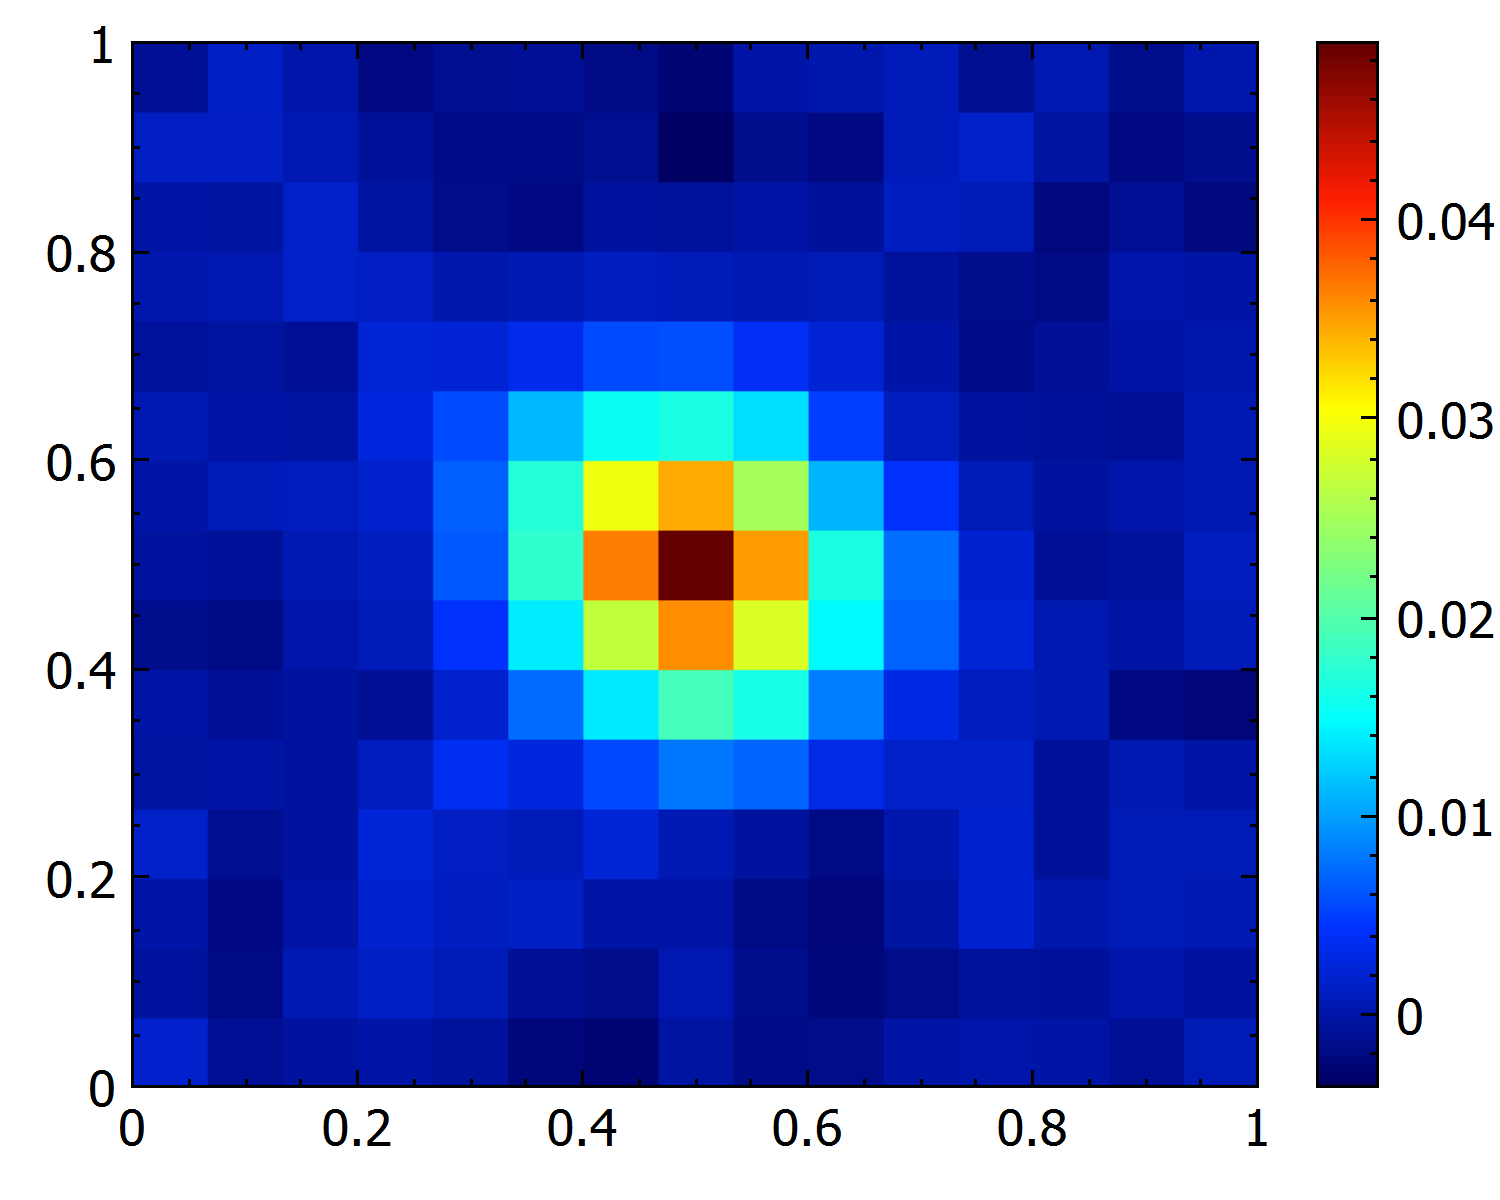
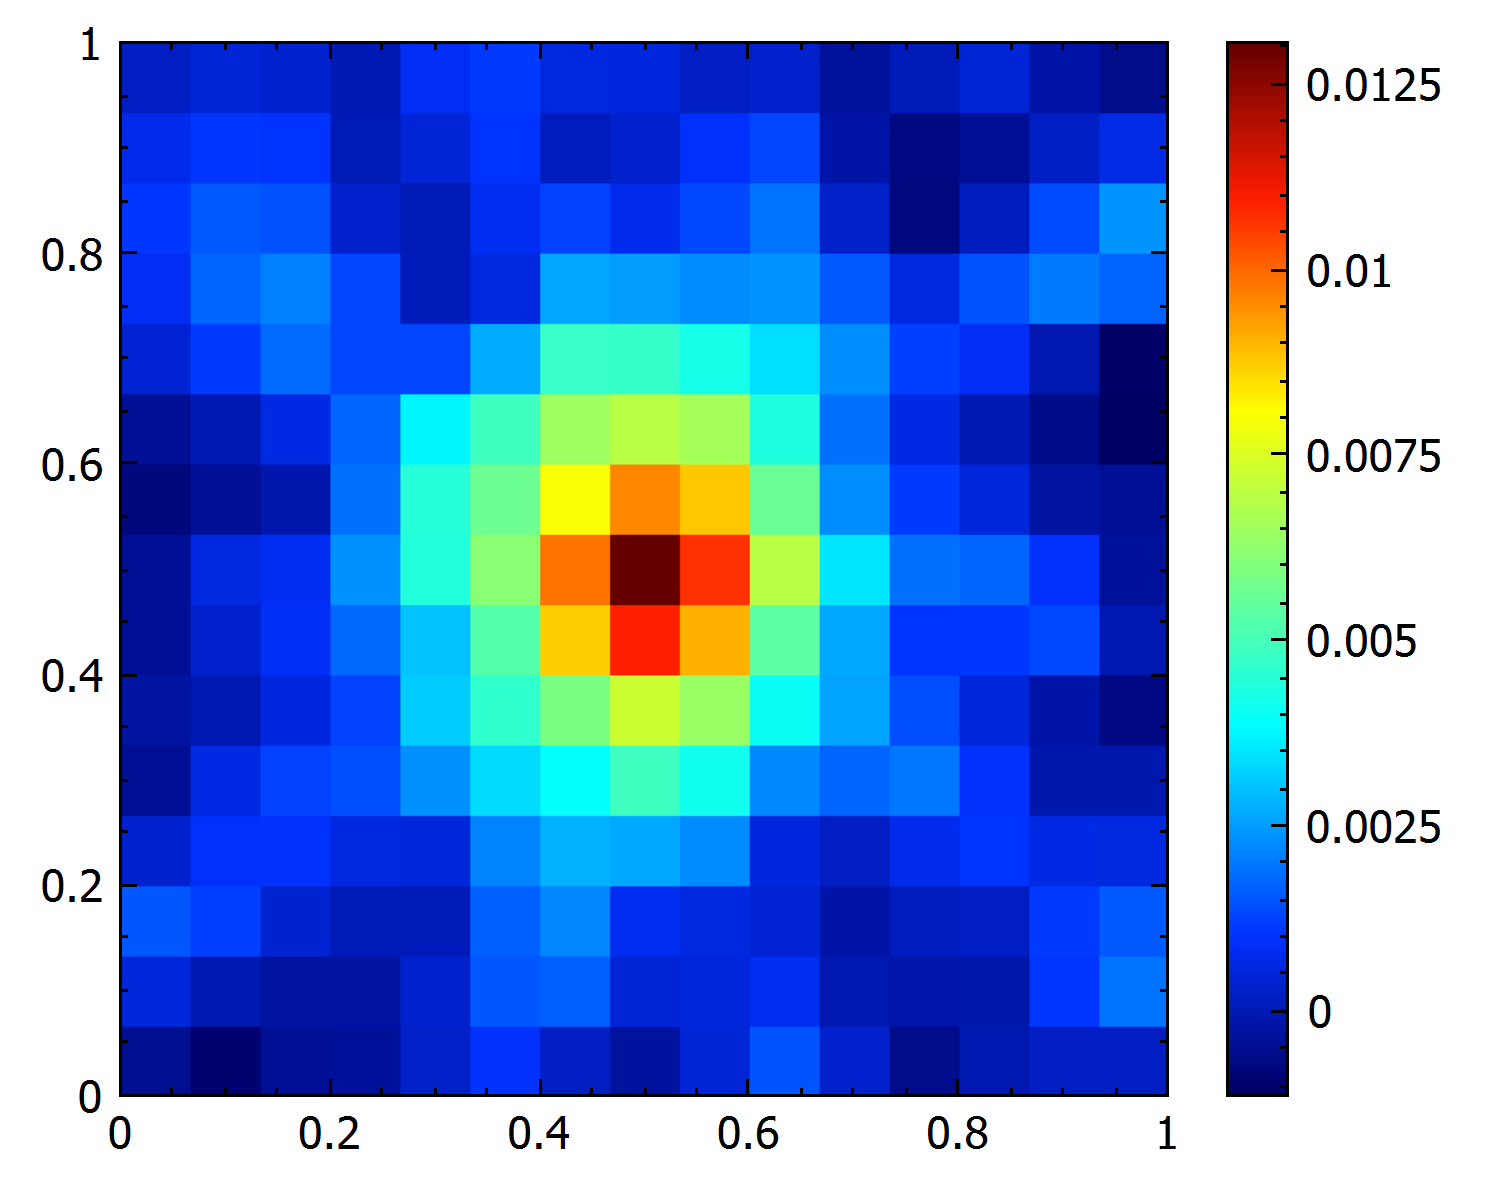
stuff

diff --git a/Zdeny_PhD_Shenanigans/IPC/IterativePhaseCorrelation.h b/Zdeny_PhD_Shenanigans/IPC/IterativePhaseCorrelation.h
@@ -132,7 +132,7 @@ public:
     auto dft1 = CalculateFourierTransform(std::move(image1));
     auto dft2 = CalculateFourierTransform(std::move(image2));
 
-    if constexpr (DebugMode)
+    if constexpr (DebugMode && 0)
     {
       auto plot1 = dft1.clone();
       Fourier::fftshift(plot1);
@@ -158,43 +158,9 @@ public:
     }
 
     auto crosspower = CalculateCrossPowerSpectrum(std::move(dft1), std::move(dft2));
-
-    if constexpr (DebugMode) // cps boring image
-    {
-      auto plot = crosspower.clone();
-      Fourier::fftshift(plot);
-
-      Plot2D::Set(fmt::format("{} CPSm", mDebugName));
-      Plot2D::SetSavePath(fmt::format("{}/{}_CPSm.png", mDebugDirectory, mDebugName));
-      Plot2D::Plot(Fourier::logmagn(plot, 0));
-
-      Plot2D::Set(fmt::format("{} CPSlm", mDebugName));
-      Plot2D::SetSavePath(fmt::format("{}/{}_CPSlm.png", mDebugDirectory, mDebugName));
-      Plot2D::Plot(Fourier::logmagn(plot, 1));
-
-      Plot2D::Set(fmt::format("{} CPSp", mDebugName));
-      Plot2D::SetSavePath(fmt::format("{}/{}_CPSp.png", mDebugDirectory, mDebugName));
-      Plot2D::Plot(Fourier::phase(plot));
-    }
-
     ApplyBandpass(crosspower);
 
-    if constexpr (DebugMode) // cps boring image
-    {
-      auto plot = crosspower.clone();
-      Fourier::fftshift(plot);
-
-      Plot2D::Set(fmt::format("{} CPSFm", mDebugName));
-      Plot2D::SetSavePath(fmt::format("{}/{}_CPSFm.png", mDebugDirectory, mDebugName));
-      Plot2D::Plot(Fourier::logmagn(plot, 0));
-
-      Plot2D::Set(fmt::format("{} CPSFlm", mDebugName));
-      Plot2D::SetSavePath(fmt::format("{}/{}_CPSFlm.png", mDebugDirectory, mDebugName));
-      Plot2D::Plot(Fourier::logmagn(plot, 1));
-    }
-
     Mat L3 = CalculateL3(std::move(crosspower));
-
     Point2f L3peak = GetPeak(L3);
     Point2f L3mid(L3.cols / 2, L3.rows / 2);
     Point2f result = L3peak - L3mid;
@@ -202,8 +168,7 @@ public:
     if constexpr (DebugMode)
     {
       auto plot = L3.clone();
-      normalize(plot, plot, 0, 1, NORM_MINMAX);
-
+      // normalize(plot, plot, 0, 1, NORM_MINMAX);
       Plot2D::Set(fmt::format("{} L3", mDebugName));
       Plot2D::SetSavePath(fmt::format("{}/{}_L3.png", mDebugDirectory, mDebugName));
       Plot2D::Plot(plot);
@@ -239,7 +204,8 @@ public:
     if constexpr (DebugMode)
     {
       auto plot = L2.clone();
-      normalize(plot, plot, 0, 1, NORM_MINMAX);
+      // normalize(plot, plot, 0, 1, NORM_MINMAX);
+      resize(plot, plot, plot.size() * mUpsampleCoeff, 0, 0, INTER_NEAREST);
       Plot2D::Set(fmt::format("{} L2", mDebugName));
       Plot2D::SetSavePath(fmt::format("{}/{}_L2.png", mDebugDirectory, mDebugName));
       Plot2D::Plot(plot);
@@ -251,7 +217,7 @@ public:
     if constexpr (DebugMode)
     {
       auto plot = L2U.clone();
-      normalize(plot, plot, 0, 1, NORM_MINMAX);
+      // normalize(plot, plot, 0, 1, NORM_MINMAX);
       Plot2D::Set(fmt::format("{} L2U", mDebugName));
       Plot2D::SetSavePath(fmt::format("{}/{}_L2U.png", mDebugDirectory, mDebugName));
       Plot2D::Plot(plot);

diff --git a/Zdeny_PhD_Shenanigans/DebugStuff/DebugStuff.h b/Zdeny_PhD_Shenanigans/DebugStuff/DebugStuff.h
@@ -24,32 +24,41 @@ void Debug(Globals* globals)
   LOG_FUNCTION("Debug");
   if (1) // CC/PC dizertacka pics
   {
-    Mat img1 = loadImage("Resources/shape.png");
-    Mat img2 = loadImage("Resources/shapes.png");
+    Mat img1 = loadImage("Resources/shapef.png");
+    Mat img2 = loadImage("Resources/shapesf.png");
 
-    addnoise(img1, 0.1);
-    addnoise(img2, 0.1);
+    addnoise(img1, 0.3);
+    addnoise(img2, 0.3);
 
-    IterativePhaseCorrelation<true, true> CC(img1.size(), 0, 1);
-    IterativePhaseCorrelation<true, false> PC(img1.size(), 0, 1);
+    IterativePhaseCorrelation<true, true> CC(img1.size(), 0, 0.5);
+    IterativePhaseCorrelation<true, false> PC(img1.size(), 0, 0.5);
 
     CC.SetDebugName("CC");
     PC.SetDebugName("PC");
 
-    CC.SetWindowType(IterativePhaseCorrelation<true, true>::WindowType::Rectangular);
-    PC.SetWindowType(IterativePhaseCorrelation<true, false>::WindowType::Rectangular);
+    // CC.SetWindowType(IterativePhaseCorrelation<true, true>::WindowType::Rectangular);
+    // PC.SetWindowType(IterativePhaseCorrelation<true, false>::WindowType::Rectangular);
 
-    CC.SetBandpassType(IterativePhaseCorrelation<true, true>::BandpassType::Rectangular);
-    PC.SetBandpassType(IterativePhaseCorrelation<true, false>::BandpassType::Rectangular);
+    // CC.SetBandpassType(IterativePhaseCorrelation<true, true>::BandpassType::Rectangular);
+    // PC.SetBandpassType(IterativePhaseCorrelation<true, false>::BandpassType::Rectangular);
 
-    CC.SetL2size(256);
-    PC.SetL2size(256);
+    CC.SetInterpolationType(IterativePhaseCorrelation<true, true>::InterpolationType::Cubic);
+    PC.SetInterpolationType(IterativePhaseCorrelation<true, false>::InterpolationType::Cubic);
 
-    const auto shiftCC = CC.Calculate(img1, img2);
-    const auto shiftPC = PC.Calculate(img1, img2);
+    CC.SetL2size(15);
+    PC.SetL2size(15);
 
-    LOG_DEBUG("Calculated CC shift: {}", shiftCC);
-    LOG_DEBUG("Calculated PC shift: {}", shiftPC);
+    if (0)
+    {
+      const auto shiftCC = CC.Calculate(img1, img2);
+      LOG_DEBUG("Calculated CC shift: {}", shiftCC);
+    }
+
+    if (1)
+    {
+      const auto shiftPC = PC.Calculate(img1, img2);
+      LOG_DEBUG("Calculated PC shift: {}", shiftPC);
+    }
   }
   if (0) // fourier inverse coeff test
   {
